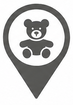
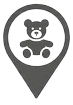
was added meters under marker's title

diff --git a/static/js/map.js b/static/js/map.js
@@ -547,6 +547,16 @@
       marker.style.transform = marker.classList.contains("pano-poi-marker--icon")
         ? "translate(-50%, -100%)"
         : "translateX(-50%)";
+
+      // Метраж под названием (как справа в сводке)
+      // item.dist_m — расстояние в метрах от текущей точки/камеры.
+      if (item.dist_m != null && item.dist_m !== "") {
+        const tooltipEl = marker.querySelector(".pano-poi-tooltip");
+        if (tooltipEl) {
+          const title = item.title ? escapeHtml(item.title) : "";
+          tooltipEl.innerHTML = `${title}<br/><span class="pano-poi-distance">${escapeHtml(String(item.dist_m))}м</span>`;
+        }
+      }
     });
   }
 